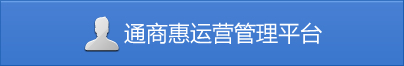
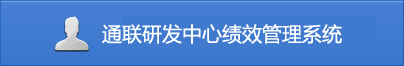
20160226

Changed region(s): [[0.1188, 0.2424, 0.8614, 0.7879]]

diff --git a/PerformanceEvaluation/Style/default.css b/PerformanceEvaluation/Style/default.css
@@ -36,7 +36,7 @@ iframe {
 	position: absolute;
 	left: 24px;
 	top: 19px;
-	font: normal 26px/16px 微软雅黑;
+	font: normal 18px/16px 微软雅黑;
 	color: #fff;
 }
 #header dl {

diff --git a/PerformanceEvaluation.Biz/BasicManager.cs b/PerformanceEvaluation.Biz/BasicManager.cs
@@ -393,7 +393,7 @@ LEFT JOIN dbo.JXMXB c WITH (NOLOCK) ON b.SysNo = c.LowerPersonSysNo AND a.Parent
                     sp.Add(new SqlParameter("@pfCycle", iJXCycle));
                     sbSQL.Clear();
                     sbSQL.Append(" SELECT ISNULL(SUM(CASE WHEN b.JXLevel = 1 THEN 1 ELSE 0 END),0) AS ACount,ISNULL(SUM(CASE WHEN b.JXLevel = 2 THEN 1 ELSE 0 END),0) AS BCount ");
-                    sbSQL.Append(" FROM JXKHGSB a WITH (NOLOCK) INNER JOIN JXMXB b WITH (NOLOCK) ON a.LowerPersonSysNo = b.LowerPersonSysNo AND b.Status = '" + (int)AppEnum.BiStatus.Valid + "' AND b.JXMXCategory = '" + (int)AppEnum.JXMXCategory.JQHZ + "' AND b.JXCycle = @pfCycle ");
+                    sbSQL.Append(" FROM (SELECT DISTINCT LowerPersonSysNo,OrganSysNo FROM JXKHGSB) a INNER JOIN JXMXB b WITH (NOLOCK) ON a.LowerPersonSysNo = b.LowerPersonSysNo AND b.Status = '" + (int)AppEnum.BiStatus.Valid + "' AND b.JXMXCategory = '" + (int)AppEnum.JXMXCategory.JQHZ + "' AND b.JXCycle = @pfCycle ");
                     sbSQL.Append(" WHERE 1=1 AND a.OrganSysNo = @OrganSysNo ");
                     DataSet dsCount = SqlHelper.ExecuteDataSet(AppConfig.Conn_PerformanceEvaluation, sbSQL.ToString(), sp);
                     if (Util.HasMoreRow(dsCount))

diff --git a/PerformanceEvaluation/Basic/PerformanceHistory.aspx.cs b/PerformanceEvaluation/Basic/PerformanceHistory.aspx.cs
@@ -111,6 +111,7 @@ namespace PerformanceEvaluation.PerformanceEvaluation.Basic
                     ht.Add("userSysNo", LoginSession.User.SysNo);
                     ht.Add("pfCycle", DateTime.Now.Year.ToString("0000") + DateTime.Now.Month.ToString("00"));
                     Tuple<bool, string> result = BasicManager.GetInstance().SaveJQHZ(ht);
+                    _log.Info(string.Format("加权汇总操作完成，完成时间：{0};返回信息：{1}", DateTime.Now, result.Item2));
                     if (result.Item1 == true)
                     {
                         Assert(lblMsg, result.Item2, 1);
